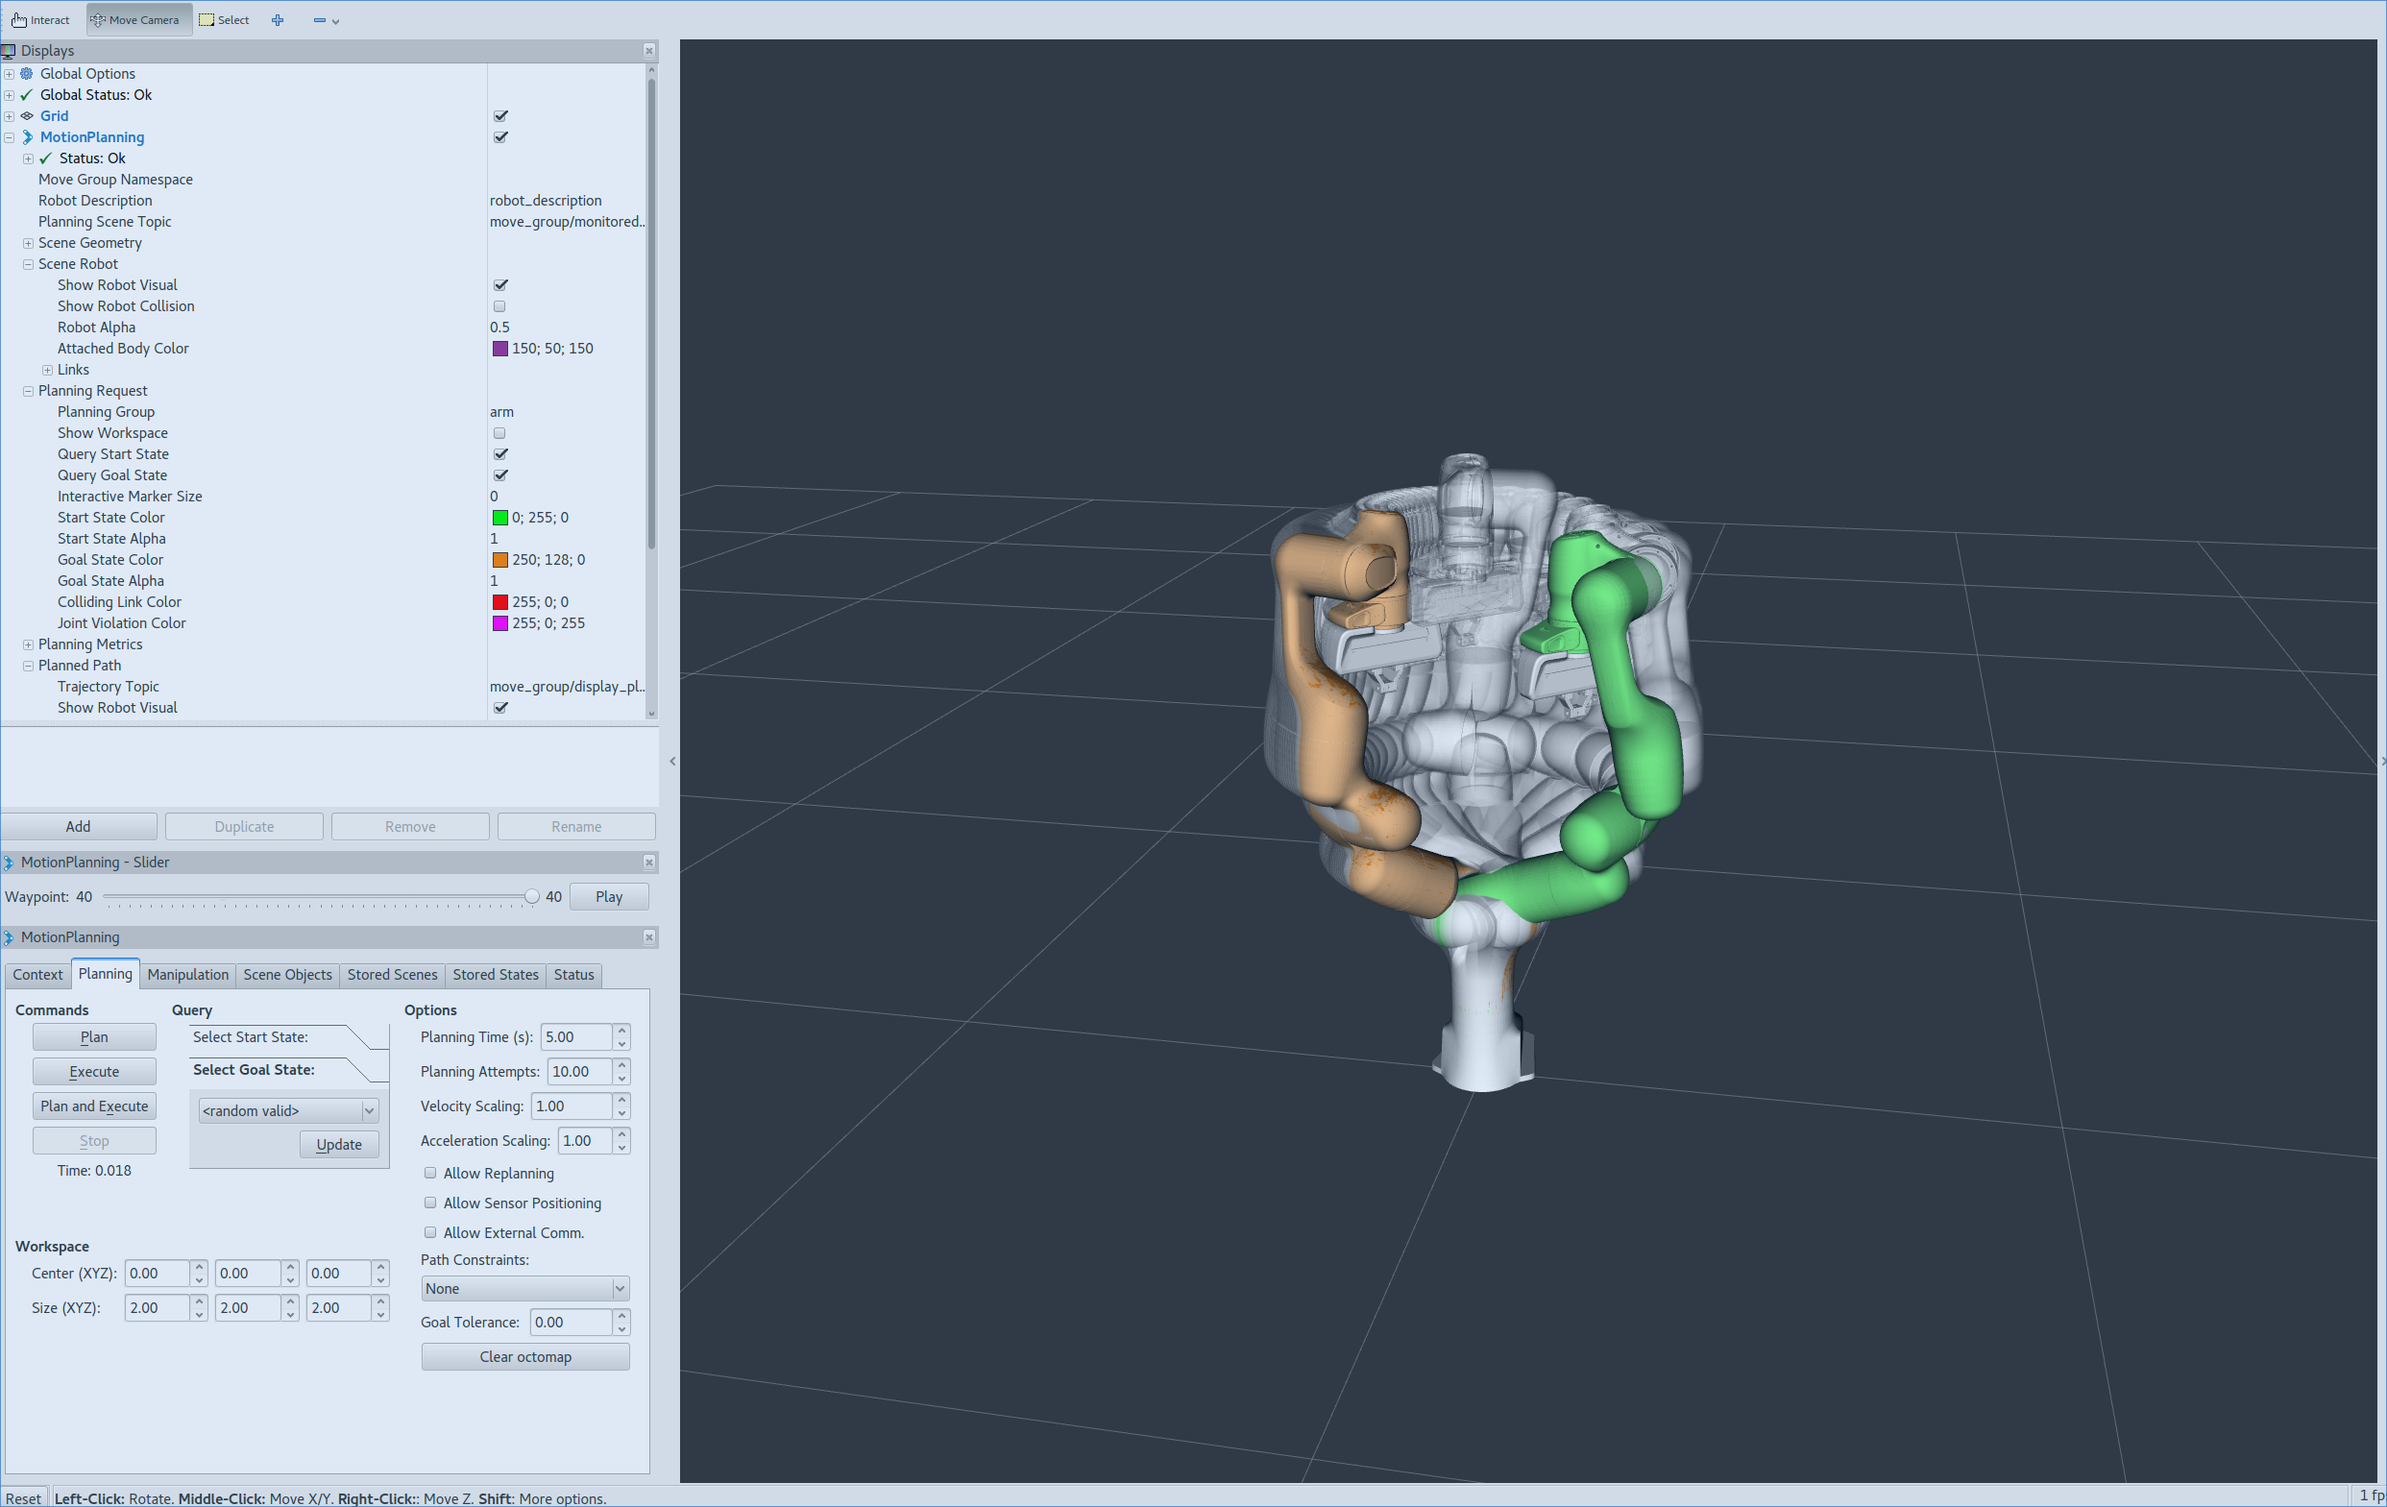
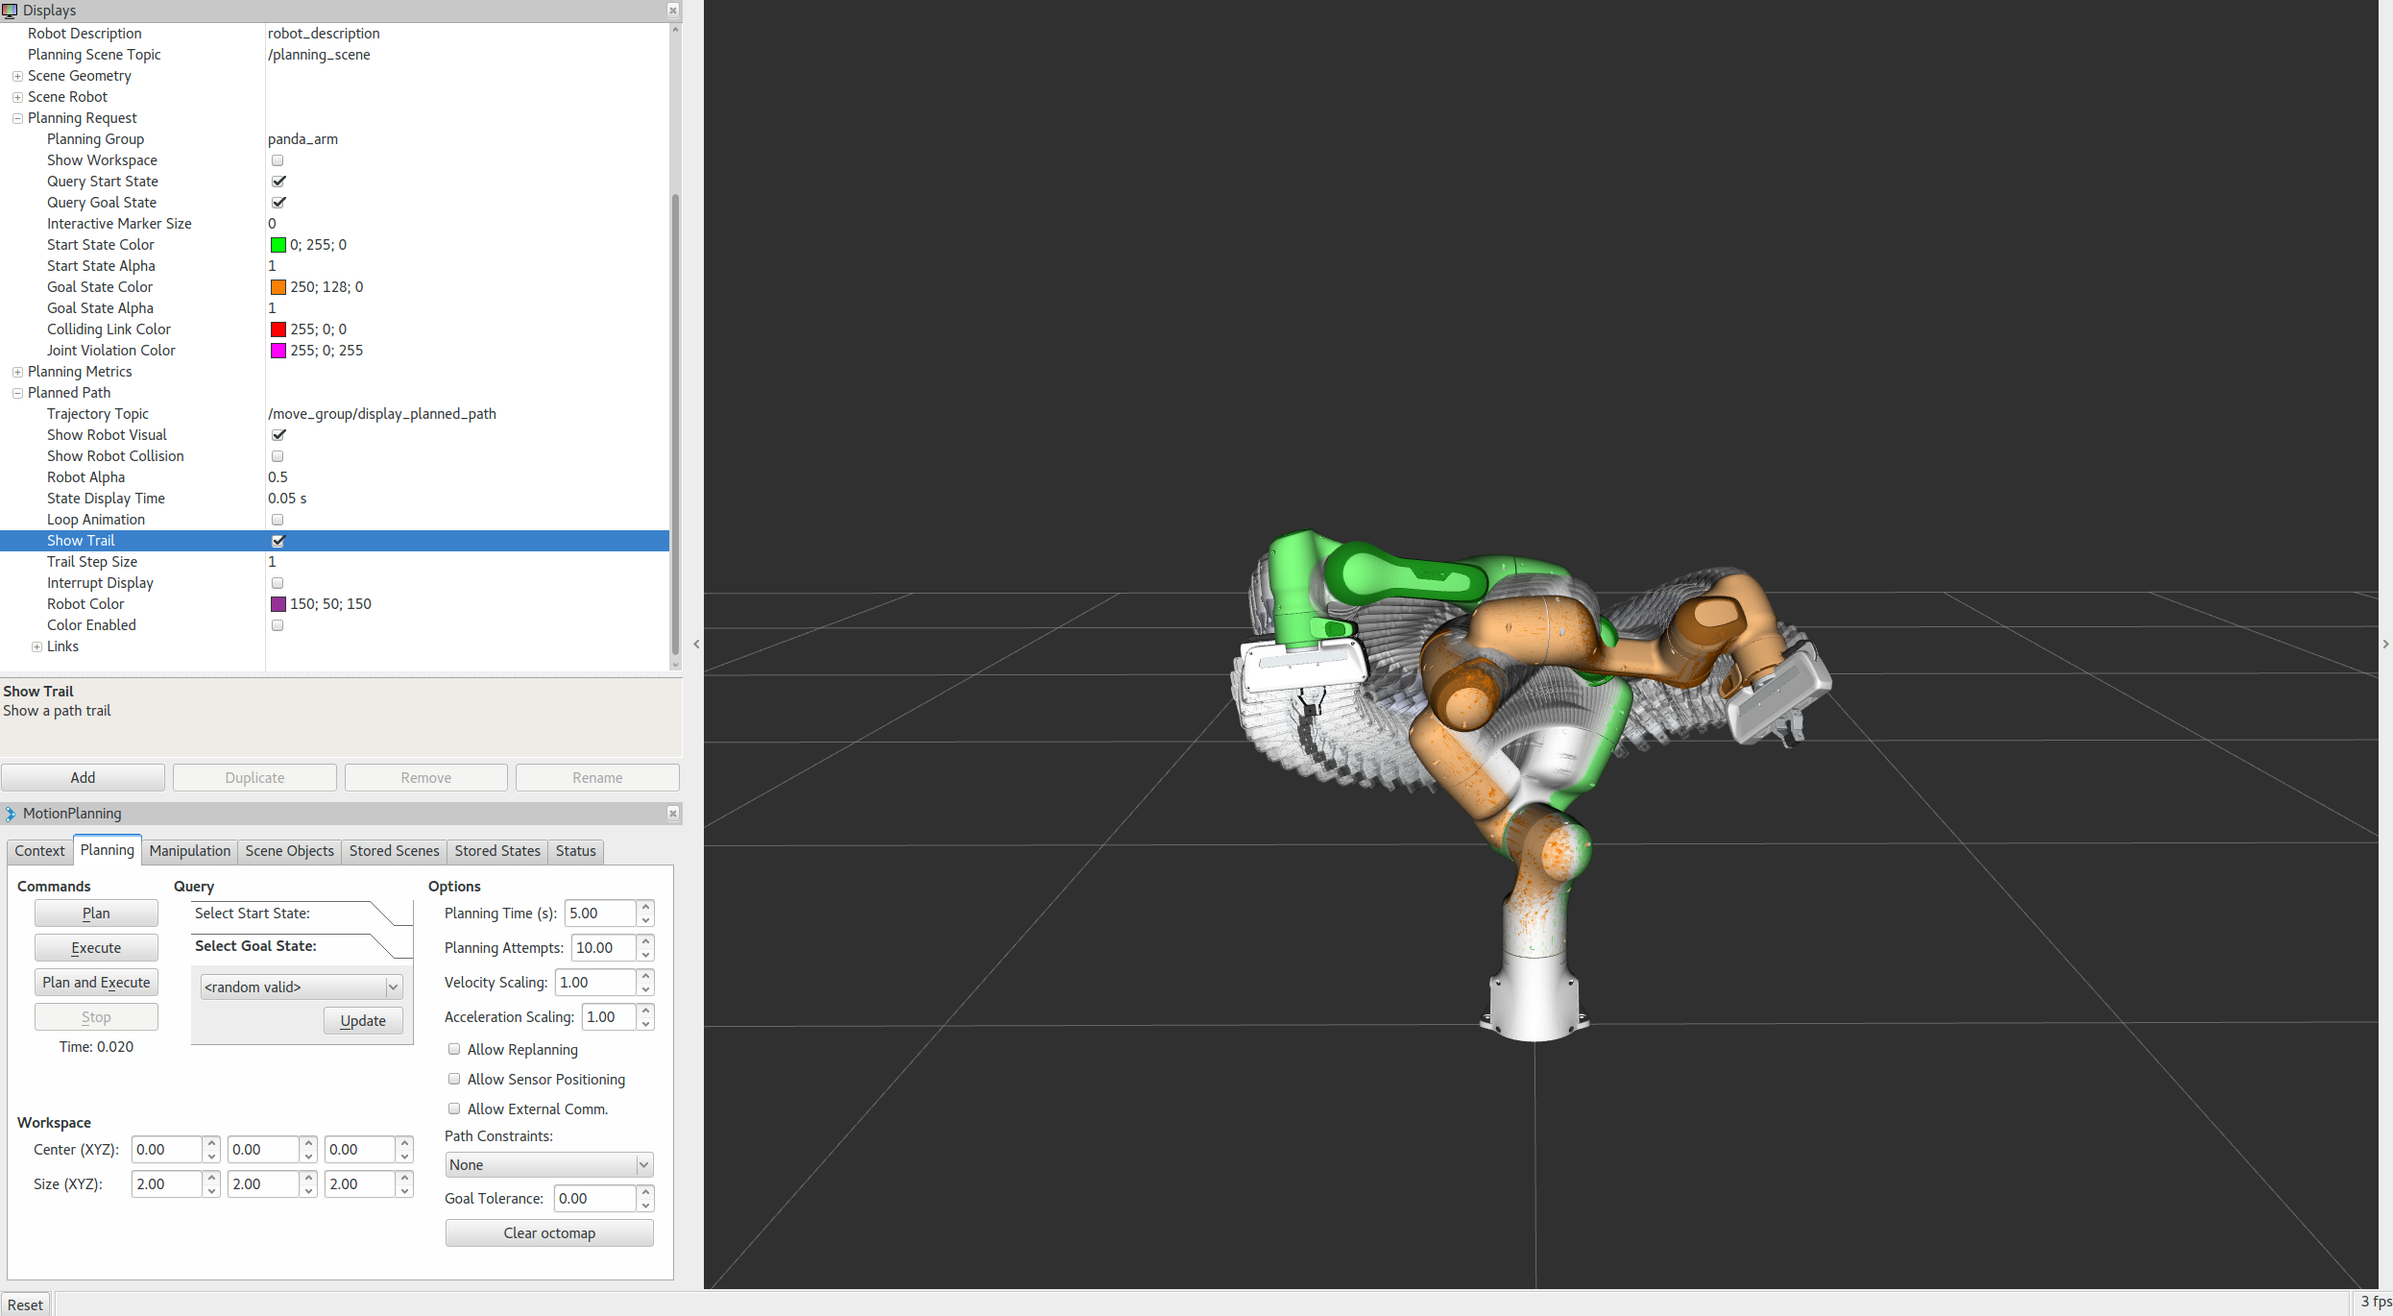
Kinetic panda vis (#31)
* updating rviz tutorial: removing unnecessary line breaks, resizing collision pic

diff --git a/doc/visualization/visualization_tutorial.rst b/doc/visualization/visualization_tutorial.rst
@@ -1,15 +1,11 @@
 Visualization with MoveIt! RViz Plugin Tutorial
 ===============================================
 
-MoveIt! comes with a plugin for the ROS Visualizer (RViz). The plugin
-allows you to setup scenes in which the robot will work, generate
-plans, visualize the output and interact directly with a visualized
-robot. We will explore the plugin in this tutorial.
+MoveIt! comes with a plugin for the ROS Visualizer (RViz). The plugin allows you to setup scenes in which the robot will work, generate plans, visualize the output and interact directly with a visualized robot. We will explore the plugin in this tutorial.
 
 Prerequisites
 -------------
-If you haven't already done so, make sure you've completed the steps in `Prerequisites
-<../prerequisites/prerequisites.html>`_.
+If you haven't already done so, make sure you've completed the steps in `Prerequisites <../prerequisites/prerequisites.html>`_.
 
 Step 1: Launch the demo and Configure the Plugin
 ------------------------------------------------
@@ -18,7 +14,7 @@ Step 1: Launch the demo and Configure the Plugin
 
    roslaunch panda_moveit_config demo.launch
 
-* If you are doing this for the first time, you will have to add the Motion Planning Plugin.
+* If you are doing this for the first time, you may have to add the Motion Planning Plugin.
 
   * In the Rviz Displays Tab, press *Add*
 
@@ -27,101 +23,83 @@ Step 1: Launch the demo and Configure the Plugin
 .. image:: rviz_plugin_motion_planning_add.png
    :width: 300px
 
-* In the "Global Options" tab of the "Displays" subwindow, set the **Fixed Frame** field to "/odom_combined"
+* In the "Global Options" tab of the "Displays" subwindow, set the **Fixed Frame** field to "/panda_link0"
 
-* Now, you can start configuring the Plugin for your robot (the Panda in
-  this case).  Click on "MotionPlanning" within "Displays".
+* Now, you can start configuring the Plugin for your robot (the Panda in this case). Click on "MotionPlanning" within "Displays".
 
-  * Make sure the **Robot Description** field is set to "robot_description"
+.. image:: rviz_motion_planning.png
+   :width: 700px
 
-  * Make sure the **Planning Scene Topic** field is set to "planning_scene".
+  * Make sure the **Robot Description** field is set to ``robot_description``
 
-  * In **Planning Request**, change the **Planning Group** to "arm".
+  * Make sure the **Planning Scene Topic** field is set to ``/planning_scene``.
 
-  * Set the **Trajectory Topic** in the Planned Path tab to "/move_group/display_planned_path".
+  * In **Planning Request**, change the **Planning Group** to ``panda_arm``.
+
+  * In **Planned Path**, change the **Trajectory Topic** to ``/move_group/display_planned_path``.
 
 .. image:: rviz_plugin_start.png
-   :width: 500px
+   :width: 700px
 
 Step 2: Play with the visualized robots
 ---------------------------------------
-There are four different visualizations active here currently:
+There are four different overlapping visualizations:
 
-#. The start state for motion planning (the planned group is represented in green).
+#. The robot's configuration in the ``/planning scene`` planning environment (active by default).
 
-#. The goal state for motion planning (the planned group is represented in orange).
+#. The planned path for the robot (active by default).
 
-#. The robot's configuration in the planning scene/ planning environment
+#. Orange: The goal state for motion planning (active by default).
 
-#. The planned path for the robot,
+#. Green: The start state for motion planning (disabled by default).
 
 The display states for each of these visualizations can be toggled on and off using checkboxes.
 
-#. The start state using the "Query Start State" checkbox in the "Planning Request" tab.
+#. The start state using the **Query Start State** checkbox in the **Planning Request** tab.
 
-#. The goal state using the "Query Goal State" checkbox in the "Planning Request" tab.
+#. The goal state using the **Query Goal State** checkbox in the **Planning Request** tab.
 
-#. The planning scene robot using the "Show Robot Visual" checkbox in the "Scene Robot" tab.
+#. The planning scene robot using the **Show Robot Visual** checkbox in the **Scene Robot** tab.
 
-#. The planned path using the "Show Robot Visual" checkbox in the "Planned Path" tab.
-
-.. image:: rviz_plugin_visualize_robots.png
-   :width: 500px
+#. The planned path using the **Show Robot Visual** checkbox in the **Planned Path** tab.
 
 * Play with all these checkboxes to switch on and off different visualizations.
+
+.. image:: rviz_plugin_visualize_robots.png
+   :width: 400px
 
 Step 3: Interact with the Panda
 -------------------------------
 
-* Press **Interact** in the top menu of rviz (Note: some tools may be
-  hidden, press **+** in the top menu to add the **Interact** tool as shown below).
-  You should see a couple of interactive markers appear for the
-  arm of the Panda.
+* Press **Interact** in the top menu of rviz (Note: some tools may be hidden, press **+** in the top menu to add the **Interact** tool as shown below). You should see a couple of interactive markers appear for the arm of the Panda.
 
-    * One marker (corresponding to the orange colored right arm) will
-      be used to set the "Goal State" for motion planning. Another
-      marker corresponding to a green colored representation of the
-      right arm will be used to set the "Start State" for motion
-      planning.
+    * One marker (corresponding to the orange colored right arm) will be used to set the "Goal State" for motion planning. Another marker corresponding to a green colored representation of the right arm will be used to set the "Start State" for motion planning.
 
-    * You will be able to use these markers (which are attached to the
-      tip link of each arm) to drag the arm around and change its
-      orientation.
-
-.. image:: rviz_interact_button.png
-   :width: 250px
+    * You will be able to use these markers (which are attached to the tip link of each arm) to drag the arm around and change its orientation.
 
 .. image:: rviz_plugin_interact.png
-   :width: 500px
+   :width: 700px
 
 Moving into collision
 +++++++++++++++++++++
 
-Note what happens when you try to move one of the arms into collision
-with the other. The two links that are in collision will turn red.
+Note what happens when you try to move one of the arms into collision with the other. The two links that are in collision will turn red.
 
 .. image:: rviz_plugin_collision.png
-   :width: 300px
+   :width: 700px
 
-The "Use Collision-Aware IK" checkbox found within the MotionPlanning
-plugin allows you to toggle the behavior of the IK solver. When the
-checkbox is ticked, the solver will keep attempting to find a
-collision-free solution for the desired end-effector pose. When it is
-unticked, the solver will allow collisions to happen in the solution.
-The links in collision will always still be visualized in red,
-regardless of the state of the checkbox.
+The "Use Collision-Aware IK" checkbox found within the MotionPlanning plugin allows you to toggle the behavior of the IK solver. When the checkbox is ticked, the solver will keep attempting to find a collision-free solution for the desired end-effector pose. When it is unticked, the solver will allow collisions to happen in the solution. The links in collision will always still be visualized in red, regardless of the state of the checkbox.
 
 .. image:: rviz_plugin_collision_aware_ik_checkbox.png
-   :width: 300px
+   :width: 700px
 
 Moving out of reachable workspace
 +++++++++++++++++++++++++++++++++
 
-Note also what happens when you try to move an end-effector out of its
-reachable workspace.
+Note also what happens when you try to move an end-effector out of its reachable workspace.
 
 .. image:: rviz_plugin_invalid.png
-   :width: 300px
+   :width: 700px
 
 Step 4: Use Motion Planning with the Panda
 ----------------------------------------
@@ -135,9 +113,9 @@ Step 4: Use Motion Planning with the Panda
   * Make sure both states are not in collision with the robot itself.
 
   * Make sure the Planned Path is being visualized. Also check the
-    "Show Trail" checkbox in the Planned Path tab.
+    **Show Trail** checkbox in the **Planned Path** tab.
 
-* In the Planning tab (at the bottom), press the Plan button. You
+* In the **MotionPlanning** window under the **Planning** tab, press the **Plan** button. You
   should be able to see a visualization of the arm moving and a trail.
 
 .. image:: rviz_plugin_planned_path.png
@@ -158,5 +136,5 @@ You can visually introspect trajectory point by point on RViz.
 
 NOTE: Once you placed your EEF to a new goal, be sure to run `Plan` before running `Play` -- otherwise you'll see the waypoints for the previous goal if available.
 
-.. image:: panda_moveit_pr491.png
+.. image:: rviz_plugin_slider.png
    :width: 700px
